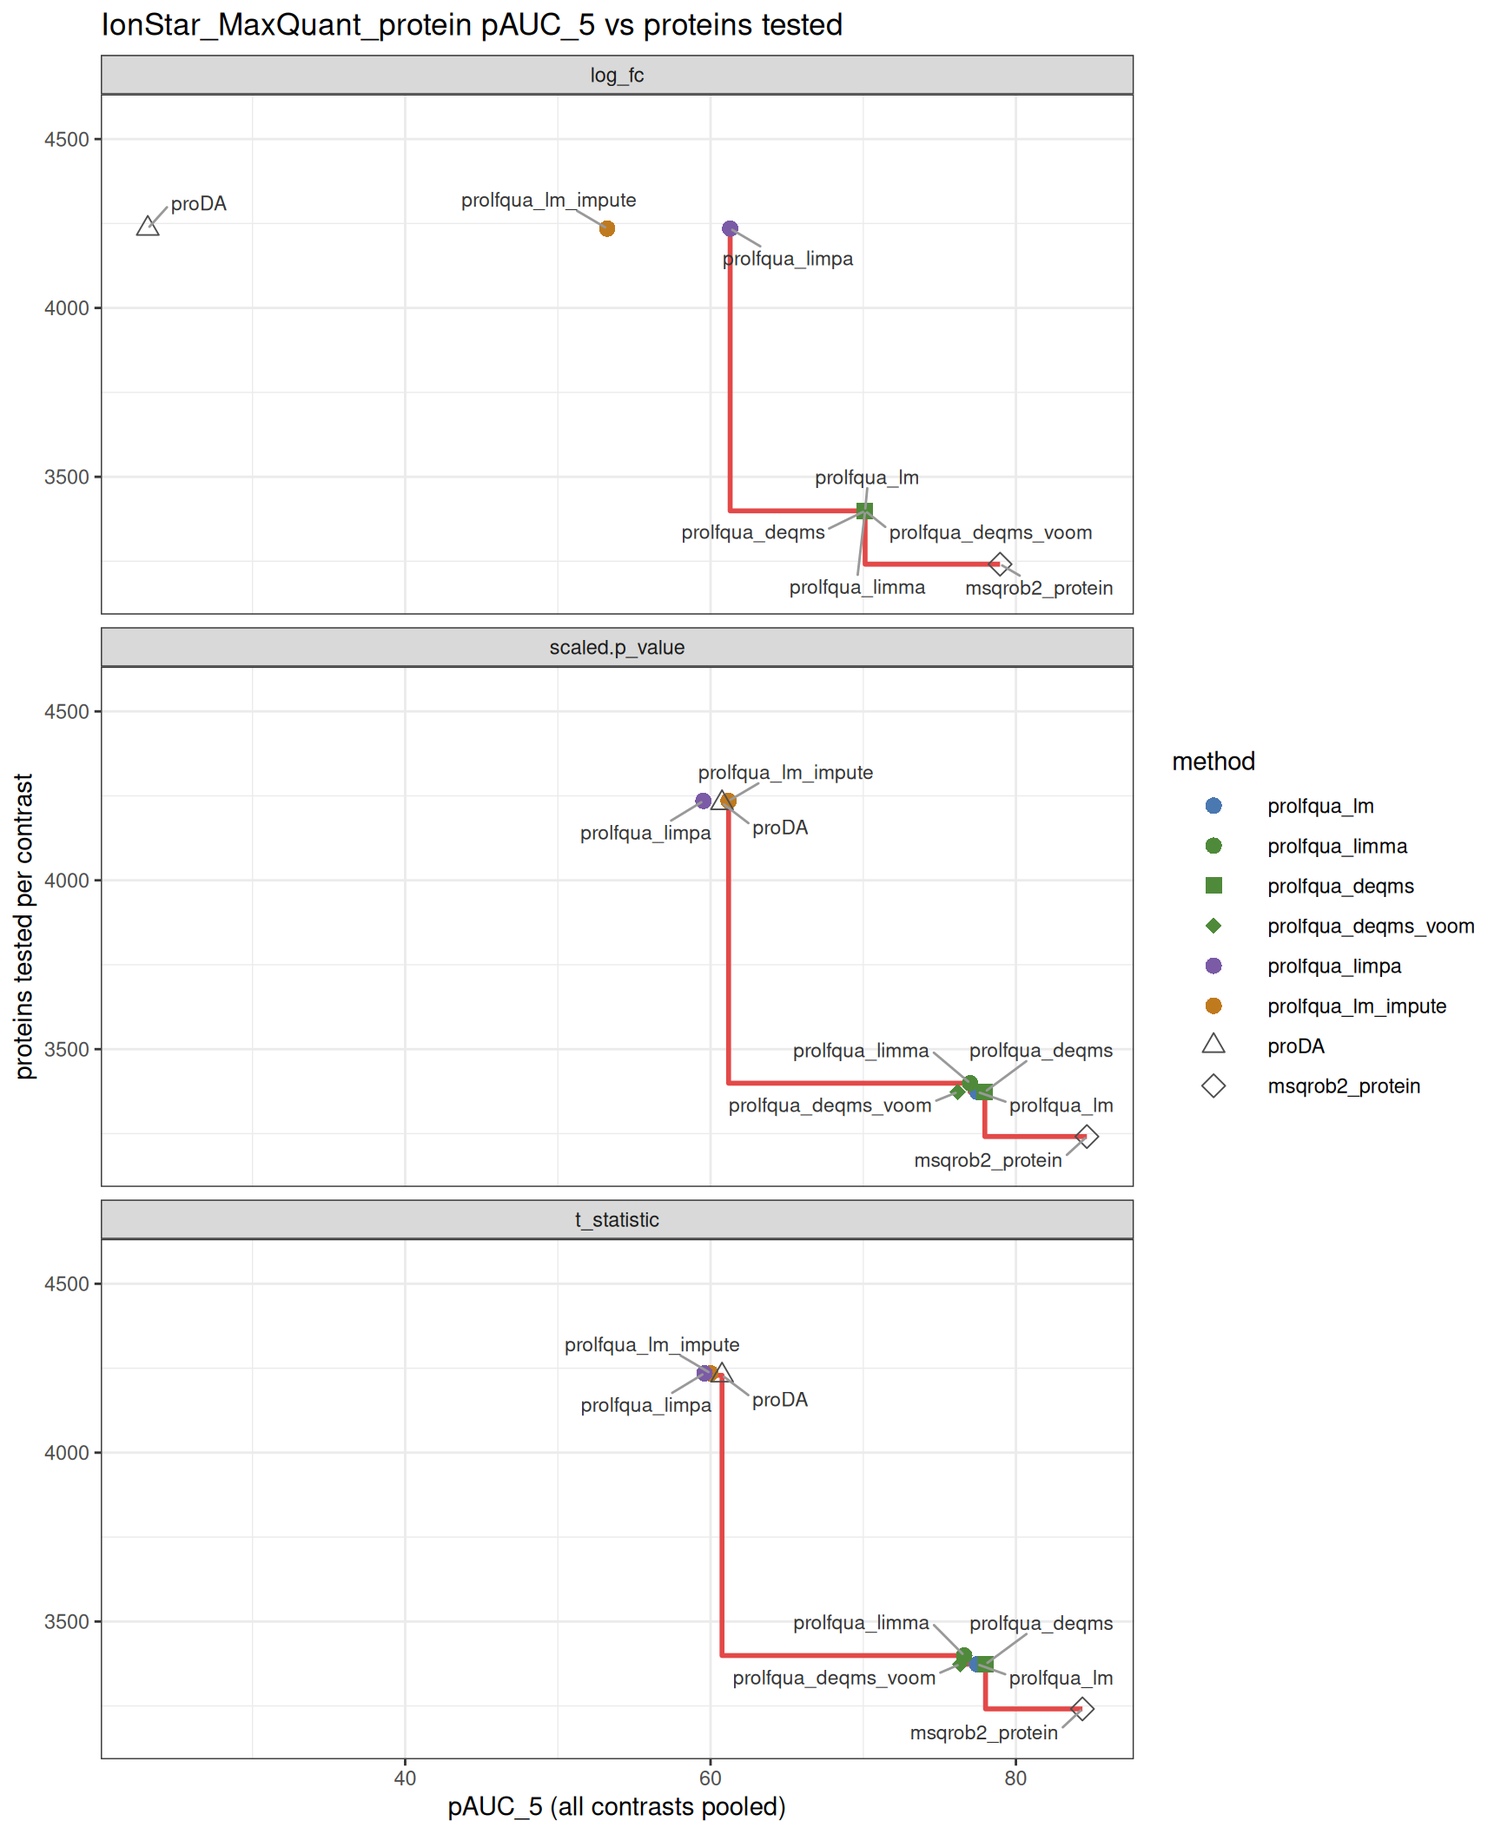
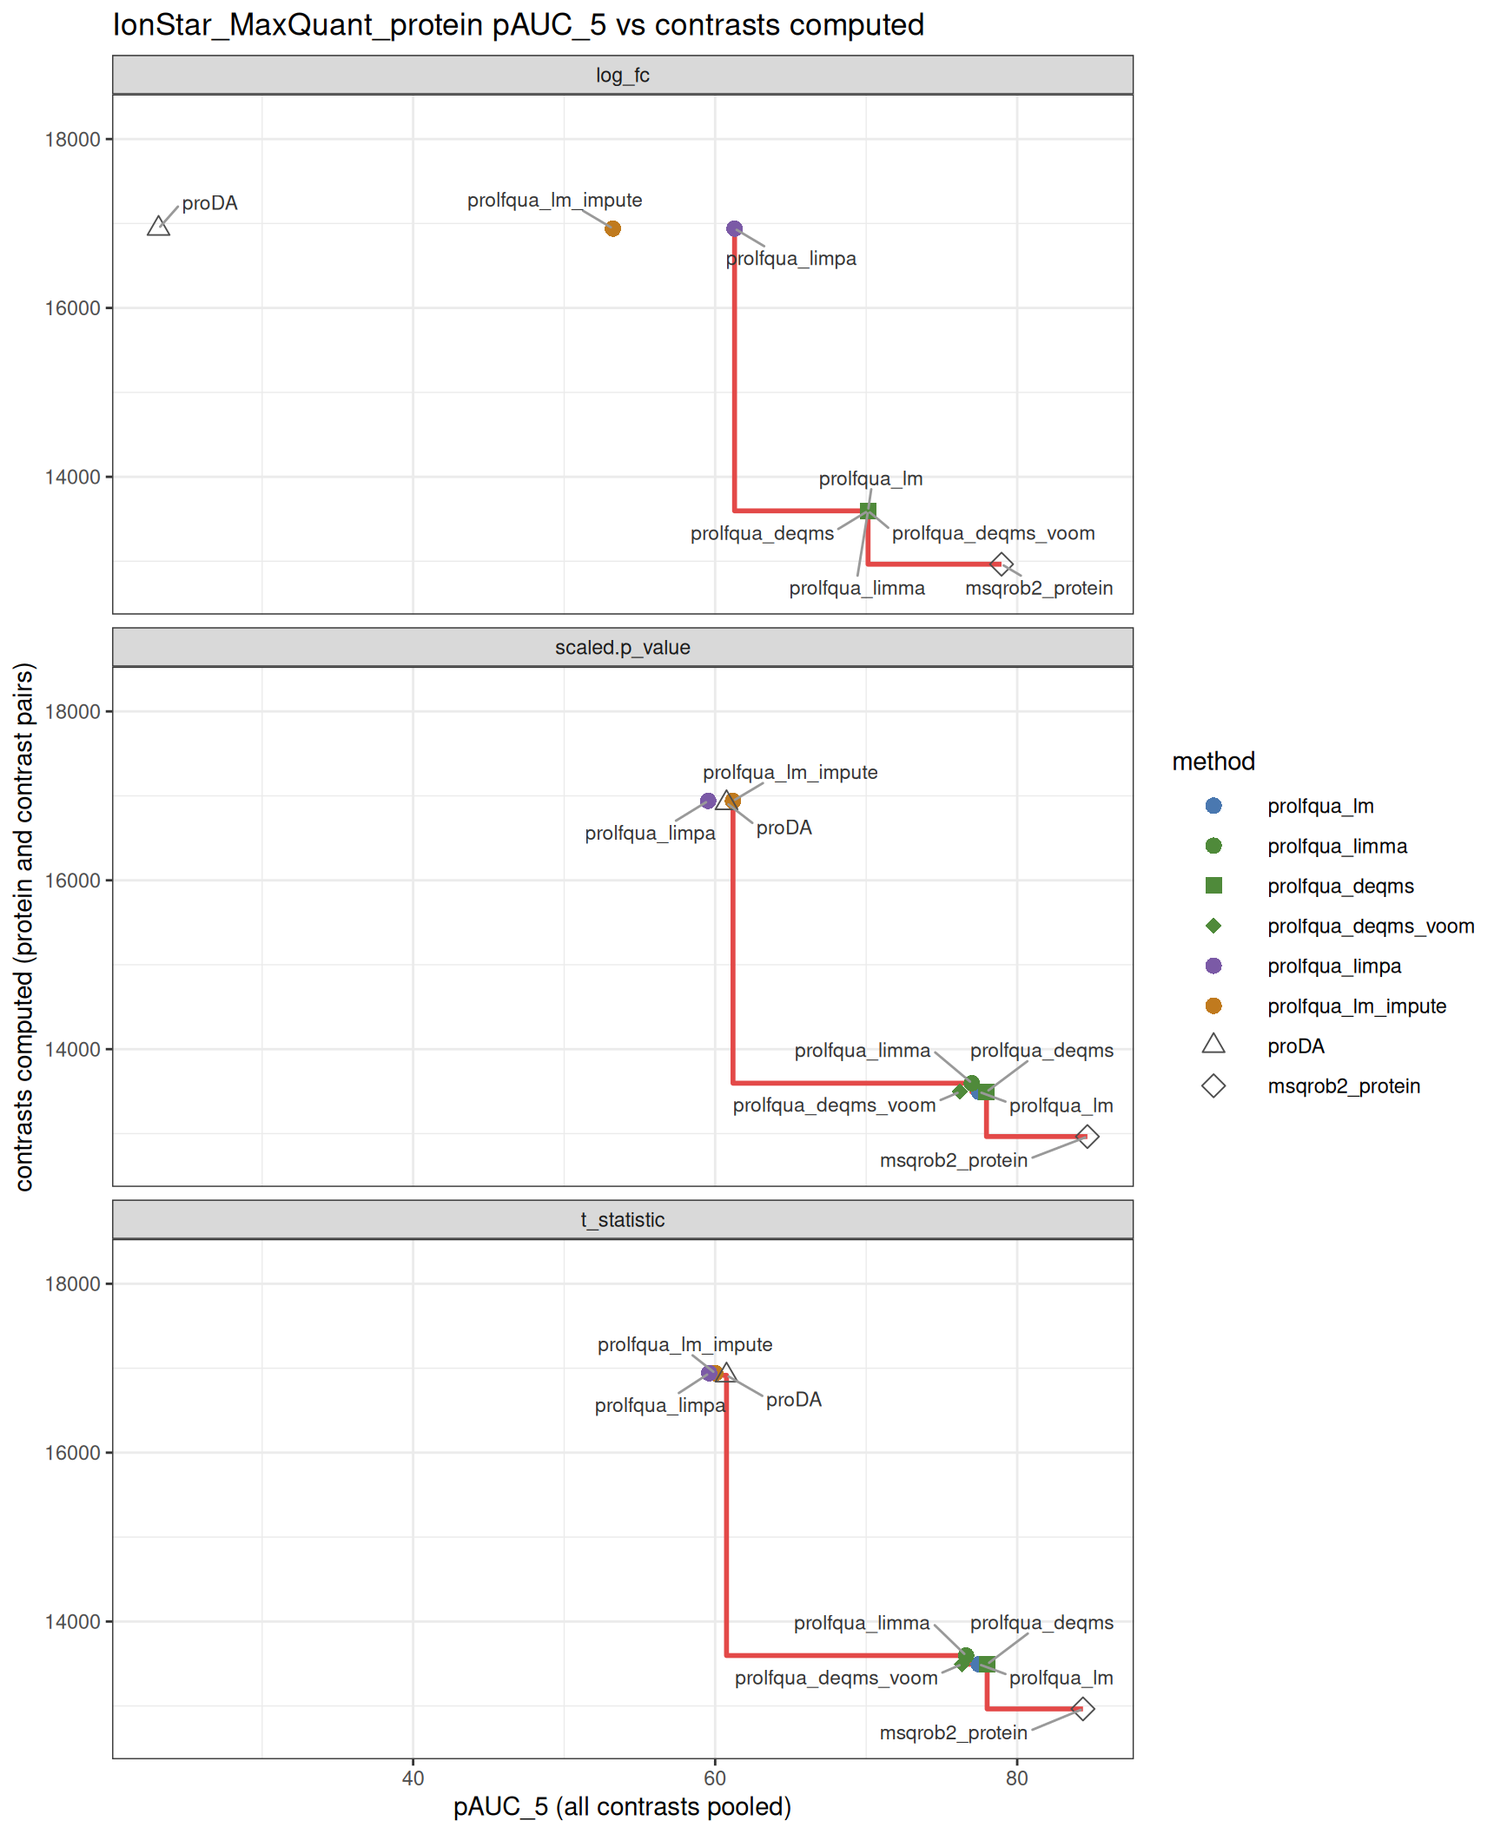
Deploying to gh-pages from @ prolfqua/prolfquabenchmark@eb38cabea5a87354e10fb153c6b92a8520923da7 🚀

diff --git a/vignettes/Benchmark_results.html b/vignettes/Benchmark_results.html
@@ -293,8 +293,8 @@ ul.task-list li input[type="checkbox"] {
 <ul>
 <li>Ranking scores: fold change (<code>log_fc</code>), p-value signed by the fold change (<code>scaled.p_value</code>), t statistic (<code>t_statistic</code>)</li>
 <li>AUC, pAUC_5, pAUC_10: area under the ROC curve, and partial area up to a false positive rate of 0.05 or 0.1, on a 0 to 100 scale, with all contrasts of a dataset pooled</li>
-<li>Proteins tested: proteins with a result in a contrast, averaged over the contrasts. Each method is scored on the proteins it tests, so pAUC_5 is plotted against this count, as in ProteoBench</li>
-<li>Pareto front (red): the methods no other method beats on both pAUC_5 and proteins tested</li>
+<li>Contrasts computed: protein and contrast pairs with a result for the ranking score, all contrasts together. Each method is scored on the pairs it computes, so pAUC_5 is plotted against this count</li>
+<li>Pareto front (red): the methods no other method beats on both pAUC_5 and contrasts computed</li>
 <li>Same pairs: a method may be on the front because it tests fewer, easier proteins. The methods that test a strict superset of its protein and contrast pairs are scored again on exactly these pairs (<code>same_pairs_scores()</code>; figure after the Pareto front, ranking by scaled p-value; <code>benchmark_same_pairs.tsv</code> has all three ranking scores)</li>
 <li>Level: <code>protein</code> (model fitted to protein abundances), <code>peptide</code> (model fitted to peptides, one result per protein), <code>protein + peptide</code> (hurdle: intensity on proteins, detection on peptides)</li>
 <li>FDP vs FDR: the false discovery proportion at each nominal FDR; a calibrated FDR lies on the diagonal</li>
@@ -661,7 +661,7 @@ msqrob2 hurdle; Fisher combination of the intensity and detection p-values
 <div class="cell-output-display">
 <div class="quarto-figure quarto-figure-center">
 <figure class="figure"><p><img src="Benchmark_results_files/figure-html/unnamed-chunk-6-1.png" class="img-fluid figure-img" width="864"></p>
-<figcaption>Ranking accuracy against the number of proteins tested on IonStar_MaxQuant. Each point is one method. x: pAUC_5, the partial area under the ROC curve up to a false positive rate of 0.05 (0 to 100), all 4 contrasts pooled; the ROC curve separates ECOLI proteins (changed) from HUMAN proteins (unchanged). y: proteins with a result, averaged over the contrasts. Panels rank proteins by fold change (log_fc), by p-value signed by the fold change (scaled.p_value) and by t statistic. Colour: model family as in the prolfqua factory figure; shape: model within its family; grey open shapes: external tools. The red staircase is the Pareto front: no other method has both a higher pAUC_5 and more proteins tested.</figcaption></figure>
+<figcaption>Ranking accuracy against the number of contrasts computed on IonStar_MaxQuant. Each point is one method. x: pAUC_5, the partial area under the ROC curve up to a false positive rate of 0.05 (0 to 100), all 4 contrasts pooled; the ROC curve separates ECOLI proteins (changed) from HUMAN proteins (unchanged). y: contrasts computed, the protein and contrast pairs with a result. Panels rank proteins by fold change (log_fc), by p-value signed by the fold change (scaled.p_value) and by t statistic. Colour: model family as in the prolfqua factory figure; shape: model within its family; grey open shapes: external tools. The red staircase is the Pareto front: no other method has both a higher pAUC_5 and more contrasts computed.</figcaption></figure>
 </div>
 </div>
 </div>
@@ -1116,7 +1116,7 @@ protein
 <div class="cell-output-display">
 <div class="quarto-figure quarto-figure-center">
 <figure class="figure"><p><img src="Benchmark_results_files/figure-html/unnamed-chunk-10-1.png" class="img-fluid figure-img" width="864"></p>
-<figcaption>Ranking accuracy against the number of proteins tested on IonStar_MaxQuant_protein. Each point is one method. x: pAUC_5, the partial area under the ROC curve up to a false positive rate of 0.05 (0 to 100), all 4 contrasts pooled; the ROC curve separates ECOLI proteins (changed) from HUMAN proteins (unchanged). y: proteins with a result, averaged over the contrasts. Panels rank proteins by fold change (log_fc), by p-value signed by the fold change (scaled.p_value) and by t statistic. Colour: model family as in the prolfqua factory figure; shape: model within its family; grey open shapes: external tools. The red staircase is the Pareto front: no other method has both a higher pAUC_5 and more proteins tested.</figcaption></figure>
+<figcaption>Ranking accuracy against the number of contrasts computed on IonStar_MaxQuant_protein. Each point is one method. x: pAUC_5, the partial area under the ROC curve up to a false positive rate of 0.05 (0 to 100), all 4 contrasts pooled; the ROC curve separates ECOLI proteins (changed) from HUMAN proteins (unchanged). y: contrasts computed, the protein and contrast pairs with a result. Panels rank proteins by fold change (log_fc), by p-value signed by the fold change (scaled.p_value) and by t statistic. Colour: model family as in the prolfqua factory figure; shape: model within its family; grey open shapes: external tools. The red staircase is the Pareto front: no other method has both a higher pAUC_5 and more contrasts computed.</figcaption></figure>
 </div>
 </div>
 </div>
@@ -1427,7 +1427,7 @@ protein
 <div class="cell-output-display">
 <div class="quarto-figure quarto-figure-center">
 <figure class="figure"><p><img src="Benchmark_results_files/figure-html/unnamed-chunk-14-1.png" class="img-fluid figure-img" width="864"></p>
-<figcaption>Ranking accuracy against the number of proteins tested on IonStar_FragPipe_MSstats. Each point is one method. x: pAUC_5, the partial area under the ROC curve up to a false positive rate of 0.05 (0 to 100), all 4 contrasts pooled; the ROC curve separates ECOLI proteins (changed) from HUMAN proteins (unchanged). y: proteins with a result, averaged over the contrasts. Panels rank proteins by fold change (log_fc), by p-value signed by the fold change (scaled.p_value) and by t statistic. Colour: model family as in the prolfqua factory figure; shape: model within its family; grey open shapes: external tools. The red staircase is the Pareto front: no other method has both a higher pAUC_5 and more proteins tested.</figcaption></figure>
+<figcaption>Ranking accuracy against the number of contrasts computed on IonStar_FragPipe_MSstats. Each point is one method. x: pAUC_5, the partial area under the ROC curve up to a false positive rate of 0.05 (0 to 100), all 4 contrasts pooled; the ROC curve separates ECOLI proteins (changed) from HUMAN proteins (unchanged). y: contrasts computed, the protein and contrast pairs with a result. Panels rank proteins by fold change (log_fc), by p-value signed by the fold change (scaled.p_value) and by t statistic. Colour: model family as in the prolfqua factory figure; shape: model within its family; grey open shapes: external tools. The red staircase is the Pareto front: no other method has both a higher pAUC_5 and more contrasts computed.</figcaption></figure>
 </div>
 </div>
 </div>
@@ -1910,7 +1910,7 @@ peptide
 <div class="cell-output-display">
 <div class="quarto-figure quarto-figure-center">
 <figure class="figure"><p><img src="Benchmark_results_files/figure-html/unnamed-chunk-18-1.png" class="img-fluid figure-img" width="864"></p>
-<figcaption>Ranking accuracy against the number of proteins tested on IonStar_FragPipe_protein. Each point is one method. x: pAUC_5, the partial area under the ROC curve up to a false positive rate of 0.05 (0 to 100), all 4 contrasts pooled; the ROC curve separates ECOLI proteins (changed) from HUMAN proteins (unchanged). y: proteins with a result, averaged over the contrasts. Panels rank proteins by fold change (log_fc), by p-value signed by the fold change (scaled.p_value) and by t statistic. Colour: model family as in the prolfqua factory figure; shape: model within its family; grey open shapes: external tools. The red staircase is the Pareto front: no other method has both a higher pAUC_5 and more proteins tested.</figcaption></figure>
+<figcaption>Ranking accuracy against the number of contrasts computed on IonStar_FragPipe_protein. Each point is one method. x: pAUC_5, the partial area under the ROC curve up to a false positive rate of 0.05 (0 to 100), all 4 contrasts pooled; the ROC curve separates ECOLI proteins (changed) from HUMAN proteins (unchanged). y: contrasts computed, the protein and contrast pairs with a result. Panels rank proteins by fold change (log_fc), by p-value signed by the fold change (scaled.p_value) and by t statistic. Colour: model family as in the prolfqua factory figure; shape: model within its family; grey open shapes: external tools. The red staircase is the Pareto front: no other method has both a higher pAUC_5 and more contrasts computed.</figcaption></figure>
 </div>
 </div>
 </div>
@@ -2219,7 +2219,7 @@ protein
 <div class="cell-output-display">
 <div class="quarto-figure quarto-figure-center">
 <figure class="figure"><p><img src="Benchmark_results_files/figure-html/unnamed-chunk-22-1.png" class="img-fluid figure-img" width="864"></p>
-<figcaption>Ranking accuracy against the number of proteins tested on CPTAC_MaxQuant. Each point is one method. x: pAUC_5, the partial area under the ROC curve up to a false positive rate of 0.05 (0 to 100), one contrast; the ROC curve separates UPS proteins (changed) from YEAST proteins (unchanged). y: proteins with a result, averaged over the contrasts. Panels rank proteins by fold change (log_fc), by p-value signed by the fold change (scaled.p_value) and by t statistic. Colour: model family as in the prolfqua factory figure; shape: model within its family; grey open shapes: external tools. The red staircase is the Pareto front: no other method has both a higher pAUC_5 and more proteins tested.</figcaption></figure>
+<figcaption>Ranking accuracy against the number of contrasts computed on CPTAC_MaxQuant. Each point is one method. x: pAUC_5, the partial area under the ROC curve up to a false positive rate of 0.05 (0 to 100), one contrast; the ROC curve separates UPS proteins (changed) from YEAST proteins (unchanged). y: contrasts computed, the protein and contrast pairs with a result. Panels rank proteins by fold change (log_fc), by p-value signed by the fold change (scaled.p_value) and by t statistic. Colour: model family as in the prolfqua factory figure; shape: model within its family; grey open shapes: external tools. The red staircase is the Pareto front: no other method has both a higher pAUC_5 and more contrasts computed.</figcaption></figure>
 </div>
 </div>
 </div>

diff --git a/man/same_pairs_scores.html b/man/same_pairs_scores.html
@@ -287,7 +287,7 @@ ul.task-list li input[type="checkbox"] {
 <h2 class="unnumbered anchored" data-anchor-id="scores-of-methods-on-the-protein-and-contrast-pairs-of-a-method-on-the-pareto-front">Scores of methods on the protein and contrast pairs of a method on the Pareto front</h2>
 <section id="description" class="level3">
 <h3 class="anchored" data-anchor-id="description">Description</h3>
-<p>A method on the Pareto front of pAUC_5 against proteins tested may be there because it tests fewer proteins, an easier set. For each ranking score and each front method, the methods that test a strict superset of its pairs are scored on exactly these pairs with [score_on_pairs()]. The pairs a method tests come from [prolfqua::ContrastsComparison]: with ‘log_fc’ the pairs with a fold change, with ‘t_statistic’ those with a t statistic, with ‘scaled.p_value’ those with a fold change and a p-value.</p>
+<p>A method on the Pareto front of pAUC_5 against contrasts computed may be there because it tests fewer proteins, an easier set. For each ranking score and each front method, the methods that test a strict superset of its pairs are scored on exactly these pairs with [score_on_pairs()]. The pairs a method tests come from [prolfqua::ContrastsComparison]: with ‘log_fc’ the pairs with a fold change, with ‘t_statistic’ those with a t statistic, with ‘scaled.p_value’ those with a fold change and a p-value.</p>
 </section>
 <section id="usage" class="level3">
 <h3 class="anchored" data-anchor-id="usage">Usage</h3>
@@ -310,14 +310,14 @@ named list (names: methods) of the results of one dataset, each as for [score_on
 <code id="scores">scores</code>
 </td>
 <td>
-the score table rows of these methods (‘model_name’, ‘contrast’, ‘score’, ‘pAUC_5’, ‘n_total’), as in ‘benchmark_scores.tsv’; the front uses pAUC_5 of contrast ‘all’ and ‘n_total’ averaged over the other contrasts
+the score table rows of these methods (‘model_name’, ‘contrast’, ‘score’, ‘pAUC_5’, ‘n_total’), as in ‘benchmark_scores.tsv’; the front uses pAUC_5 and ‘n_total’ of contrast ‘all’, all contrasts pooled
 </td>
 </tr>
 </tbody></table>
 </section>
 <section id="value" class="level3">
 <h3 class="anchored" data-anchor-id="value">Value</h3>
-<p>data.frame with one row per ranking score, front method with a superset and method (the front method on its own pairs first, then its supersets): ‘score’, ‘front_method’, ‘proteins’ (the front method’s proteins tested per contrast), ‘method’, ‘pAUC_5’, ‘pAUC_10’</p>
+<p>data.frame with one row per ranking score, front method with a superset and method (the front method on its own pairs first, then its supersets): ‘score’, ‘front_method’, ‘contrasts’ (the front method’s contrasts computed, protein and contrast pairs scored), ‘method’, ‘pAUC_5’, ‘pAUC_10’</p>
 </section>
 <section id="see-also" class="level3">
 <h3 class="anchored" data-anchor-id="see-also">See Also</h3>

diff --git a/NEWS.html b/NEWS.html
@@ -286,6 +286,7 @@ ul.task-list li input[type="checkbox"] {
 <section id="prolfquabenchmark-0.3.4" class="level1">
 <h1>prolfquabenchmark 0.3.4</h1>
 <ul>
+<li><p><code>Benchmark_results</code> plots pAUC_5 against the number of contrasts computed (protein and contrast pairs with a result, all contrasts together) instead of the proteins tested averaged over the contrasts; the Pareto front is the same. The same-pairs panels and <code>benchmark_same_pairs.tsv</code> give the front method’s contrasts computed (column <code>contrasts</code>).</p></li>
 <li><p>Same pairs: a method may be on the Pareto front because it tests fewer, easier proteins. The new pipeline step <code>score_same_pairs</code> scores every method that tests a strict superset of a front method’s protein and contrast pairs on exactly these pairs (<code>inst/extdata/benchmark_same_pairs.tsv</code>), and <code>Benchmark_results</code> shows them per dataset in a figure after the Pareto front. New exported functions <code>same_pairs_scores()</code>, <code>score_on_pairs()</code> and <code>pareto_optimal()</code>; the pairs come from prolfqua’s <code>ContrastsComparison</code>, so prolfquabenchmark now requires prolfqua 1.9.8.</p></li>
 <li><p>Benchmark rerun with prolfqua 1.9.7 and its scores added to the score history. prolfqua 1.9.6 computes each protein’s limma contrasts from its own observed samples: <code>prolfqua_limma</code>, <code>prolfqua_deqms_voom</code>, <code>prolfqua_limpa</code> and <code>prolfqua_limpa_nested</code> score higher (pAUC_5 on IonStar MaxQuant: limma 63.9 to 69.2, deqms_voom 57.9 to 64.5, limpa 60.0 to 67.0), and the vooma methods test more proteins; the other methods are unchanged.</p></li>
 <li><p>The documentation site is built with altdoc (<code>make site</code>, GitHub workflow <code>altdoc.yml</code>) instead of pkgdown; the vignettes are at <code>https://prolfqua.github.io/prolfquabenchmark/vignettes/&lt;name&gt;.html</code> (formerly <code>articles/</code>). The vignettes read the benchmark tables of the installed package, so run <code>make install</code> after <code>make benchmark</code> before rendering them.</p></li>

diff --git a/man/pareto_optimal.html b/man/pareto_optimal.html
@@ -297,7 +297,7 @@ pre > code.sourceCode > span > a:first-child::before { text-decoration: underlin
 <!-- main -->
 <main class="content" id="quarto-document-content" tabindex="-1"><header id="title-block-header" class="quarto-title-block"><nav class="quarto-page-breadcrumbs quarto-title-breadcrumbs d-none d-lg-block" aria-label="Breadcrumbs"><ol class="breadcrumb"><li class="breadcrumb-item"><a href="../man/benchmark_from_file.html">Reference</a></li><li class="breadcrumb-item"><a href="../man/pareto_optimal.html">pareto_optimal</a></li></ol></nav></header><section id="points-no-other-point-beats-in-both-coordinates" class="level2 unnumbered"><h2 class="unnumbered anchored" data-anchor-id="points-no-other-point-beats-in-both-coordinates">Points no other point beats in both coordinates</h2>
 <section id="description" class="level3"><h3 class="anchored" data-anchor-id="description">Description</h3>
-<p>A point is Pareto optimal when no other point is at least as high in both ‘x’ and ‘y’ and higher in one of them. The benchmark uses it for the methods with the best trade-off between ranking accuracy (pAUC) and the number of proteins tested.</p>
+<p>A point is Pareto optimal when no other point is at least as high in both ‘x’ and ‘y’ and higher in one of them. The benchmark uses it for the methods with the best trade-off between ranking accuracy (pAUC) and the number of contrasts computed.</p>
 </section><section id="usage" class="level3"><h3 class="anchored" data-anchor-id="usage">Usage</h3>
 <pre><code class="language-R">pareto_optimal(x, y)
 </code></pre>
